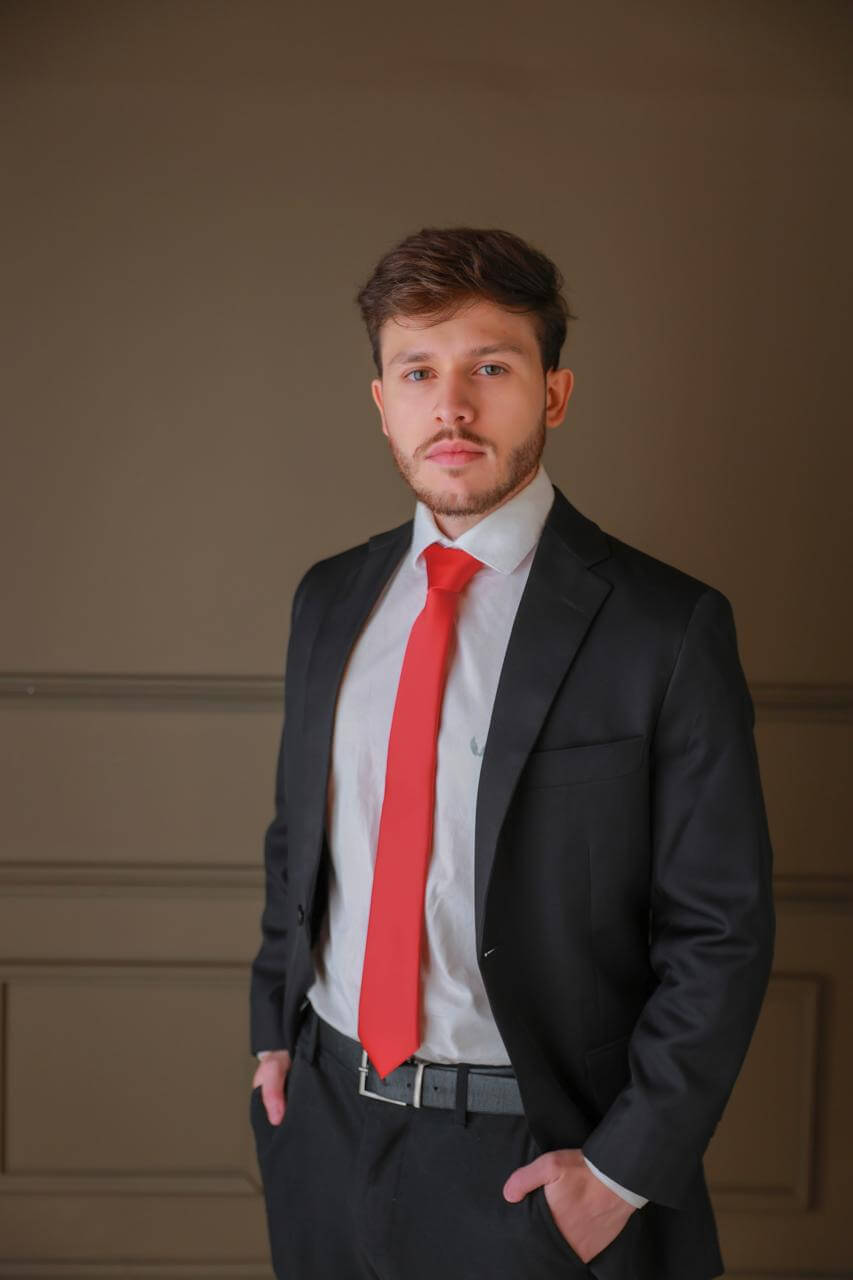
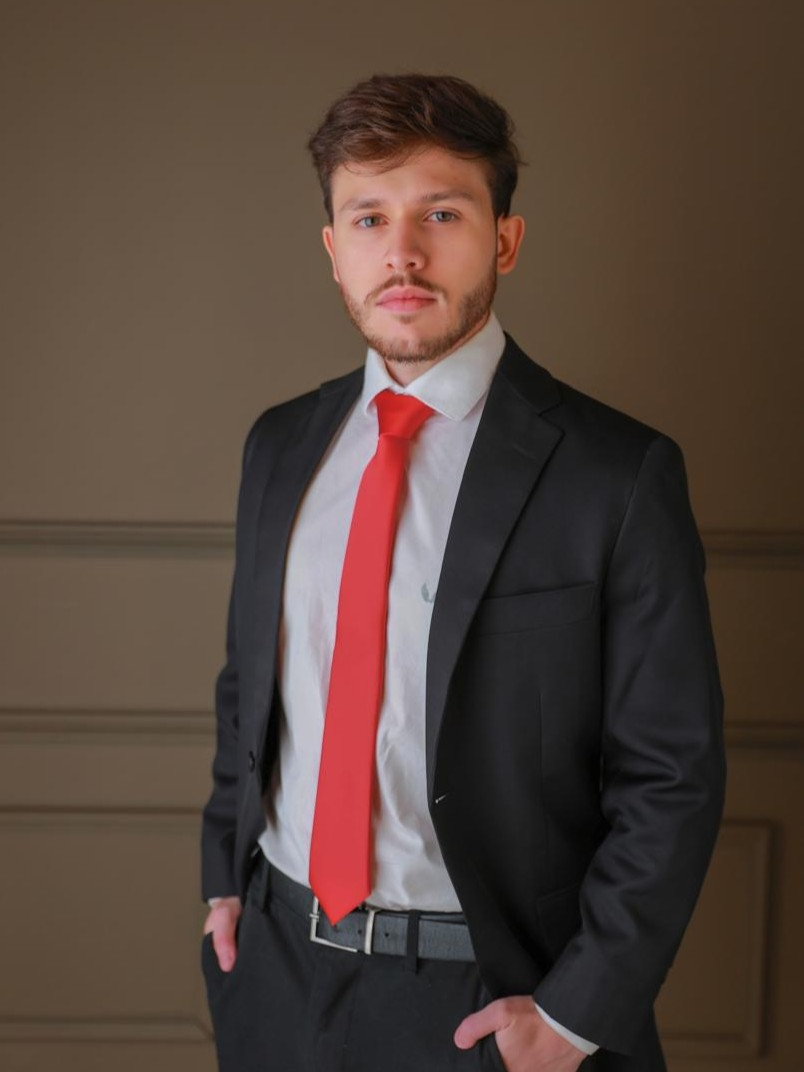
Substitui fotos dos sócios pelas versões recortadas e remove zoom
Claude-Session: https://claude.ai/code/session_01W225EF4VSBm91eaDgAHnQ7

diff --git a/src/data/site.js b/src/data/site.js
@@ -72,9 +72,6 @@ export const partners = [
     role: "Sócio Fundador | Advogado",
     bio: "Advogado, pós-graduado em Direito e Processo Tributário pelo IET, em parceria com a PUC/RS. Atua no contencioso tributário administrativo e judicial, no planejamento tributário de empresas e patrimonial de seus sócios, bem como em questões societárias e fiscais relacionadas ao comércio exterior.",
     photo: `${IMAGES}bruno_fiuza.jpg`,
-    photoPosition: "50% 0%",
-    photoZoom: 1.2,
-    photoOrigin: "50% 48%",
   },
   {
     id: "alexandre-fogaca",
@@ -83,7 +80,7 @@ export const partners = [
     role: "Sócio Fundador | Advogado",
     bio: "Advogado especialista em Direito Tributário e pós-graduando na PUC/RS. Atua na gestão e reestruturação de passivos fiscais, especialmente na negociação de dívidas por meio da transação tributária, além do contencioso tributário administrativo e judicial. Sua atuação também abrange questões relacionadas ao Direito Empresarial, Imobiliário e Processual Civil.",
     photo: `${IMAGES}alexandre_fogaca.jpg`,
-    photoPosition: "50% 75%",
+    photoPosition: "50% 0%",
   },
 ];
 
